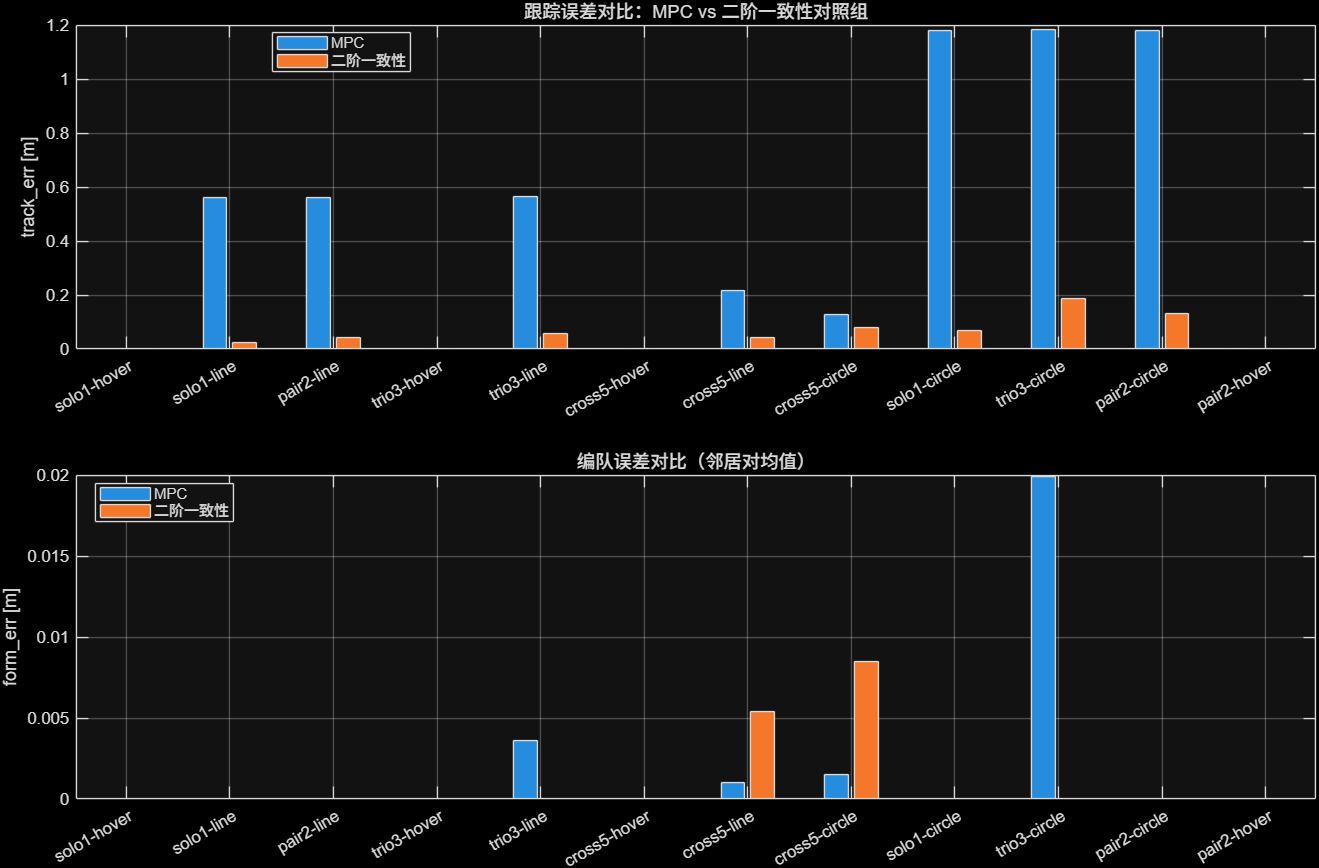
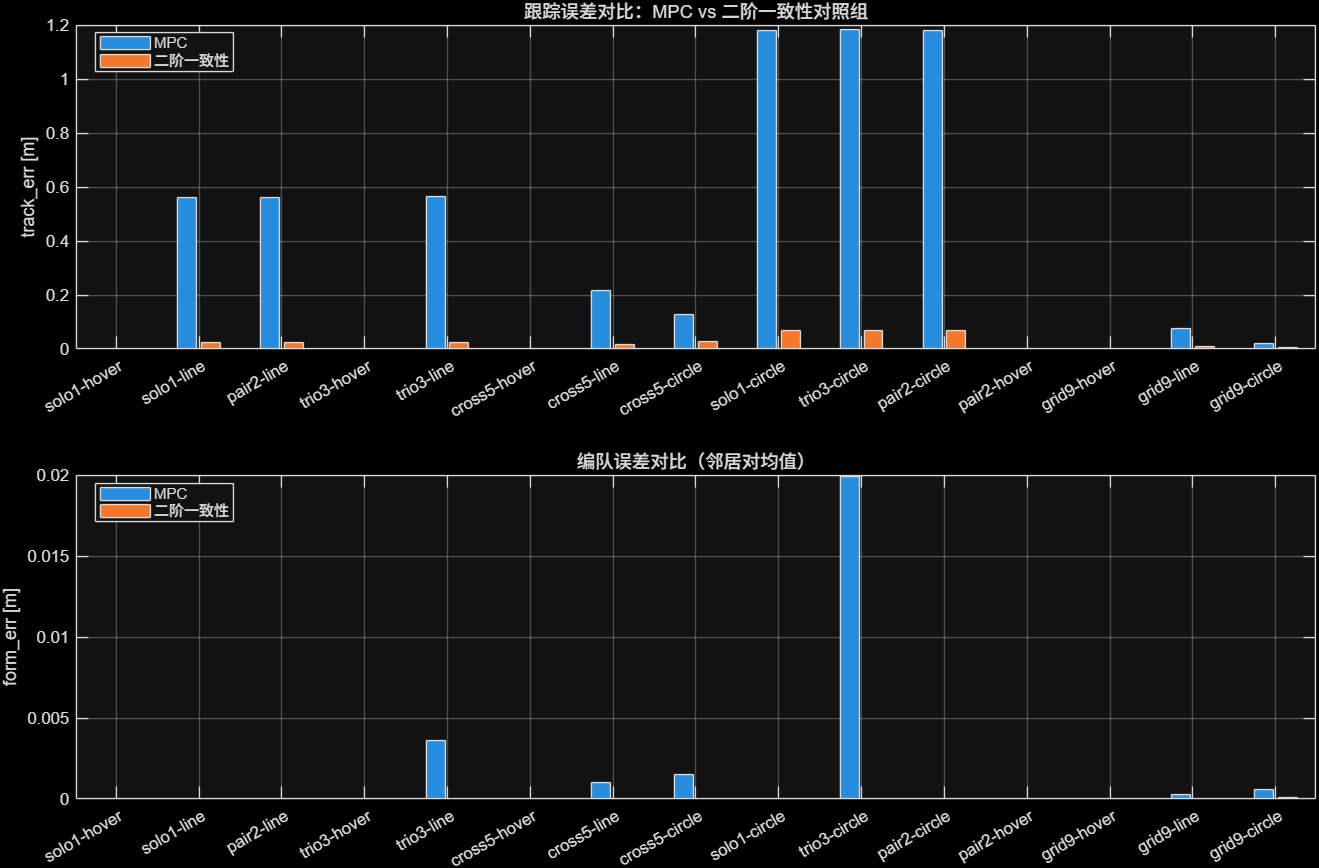
feat(consensus): grid9一致性对照补齐——consensus_swarm_9首建,6跑全PASS
- grid9 × {hover,line,circle} × {+ff,noff} 全PASS,标称对照升至5队形×3工况×3控制器全覆盖
- 公平基线 circle track_err=0.495m ≈ 共模滞后理论值 V/kp=0.5/1.0(该场景v=0.5),
  与3机1.444≈1.5/1.0同机理; MPC同场景0.022m(领先22×),line领先2.4×
- run_all_consensus{,_noff} 队形列表加grid9(12→15场景)
- 报告§5.C对照表加grid9行+9机机理自洽结论

diff --git a/report/simulink_formation/mpc_port/run_all_consensus.m b/report/simulink_formation/mpc_port/run_all_consensus.m
@@ -1,8 +1,8 @@
 function run_all_consensus()
-%RUN_ALL_CONSENSUS 二阶一致性对照组：连跑全 12 场景（4 队形 × 3 运动）
+%RUN_ALL_CONSENSUS 二阶一致性对照组：连跑全 15 场景（5 队形 × 3 运动）
 %   写 results_consensus.csv + report/figures/cons_<队形>_<运动>.png。
 %   与 MPC 同场景集；跑完用 compare_mpc_consensus 出对比表&图。
-forms = {'solo1', 'pair2', 'trio3', 'cross5'};
+forms = {'solo1', 'pair2', 'trio3', 'cross5', 'grid9'};
 modes = {'hover', 'line', 'circle'};
 tall = tic;
 for f = 1:numel(forms)

diff --git a/report/simulink_formation/mpc_port/run_all_consensus_noff.m b/report/simulink_formation/mpc_port/run_all_consensus_noff.m
@@ -1,8 +1,8 @@
 function run_all_consensus_noff()
-%RUN_ALL_CONSENSUS_NOFF 公平基线：去 leader 速度前馈的二阶一致性，连跑全 12 场景
+%RUN_ALL_CONSENSUS_NOFF 公平基线：去 leader 速度前馈的二阶一致性，连跑全 15 场景
 %   写 results_consensus_noff.csv + cons_noff_*.png。与带前馈版唯一差别 = ff=false
 %   （ablation：隔离"前馈"这一项对 track_err 的贡献）。
-forms = {'solo1', 'pair2', 'trio3', 'cross5'};
+forms = {'solo1', 'pair2', 'trio3', 'cross5', 'grid9'};
 modes = {'hover', 'line', 'circle'};
 tall = tic;
 for f = 1:numel(forms)